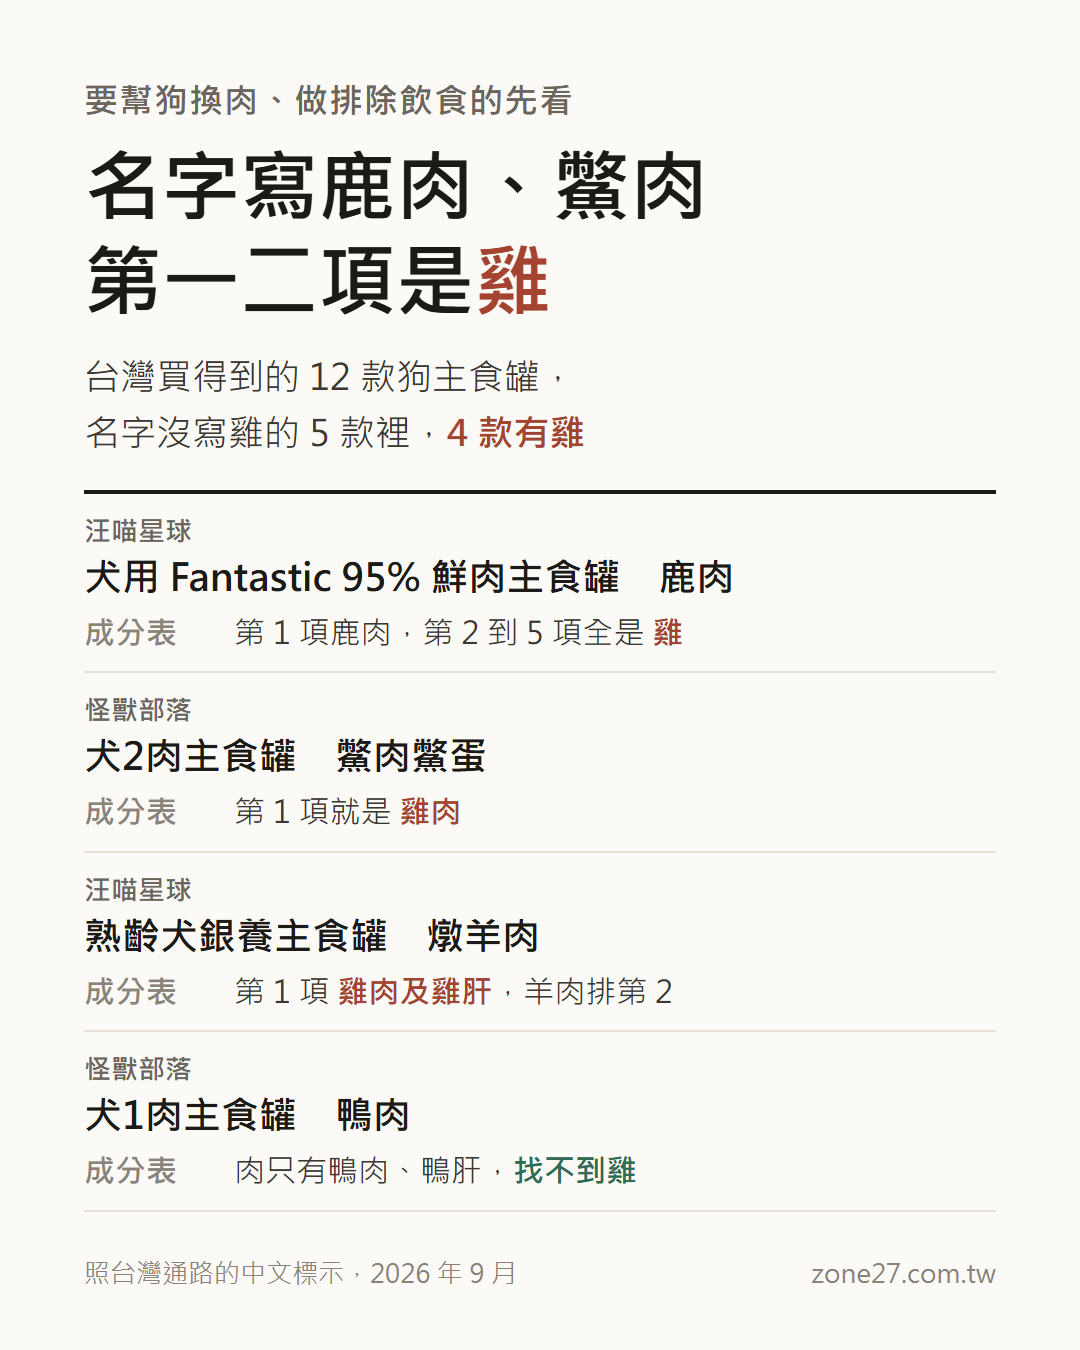
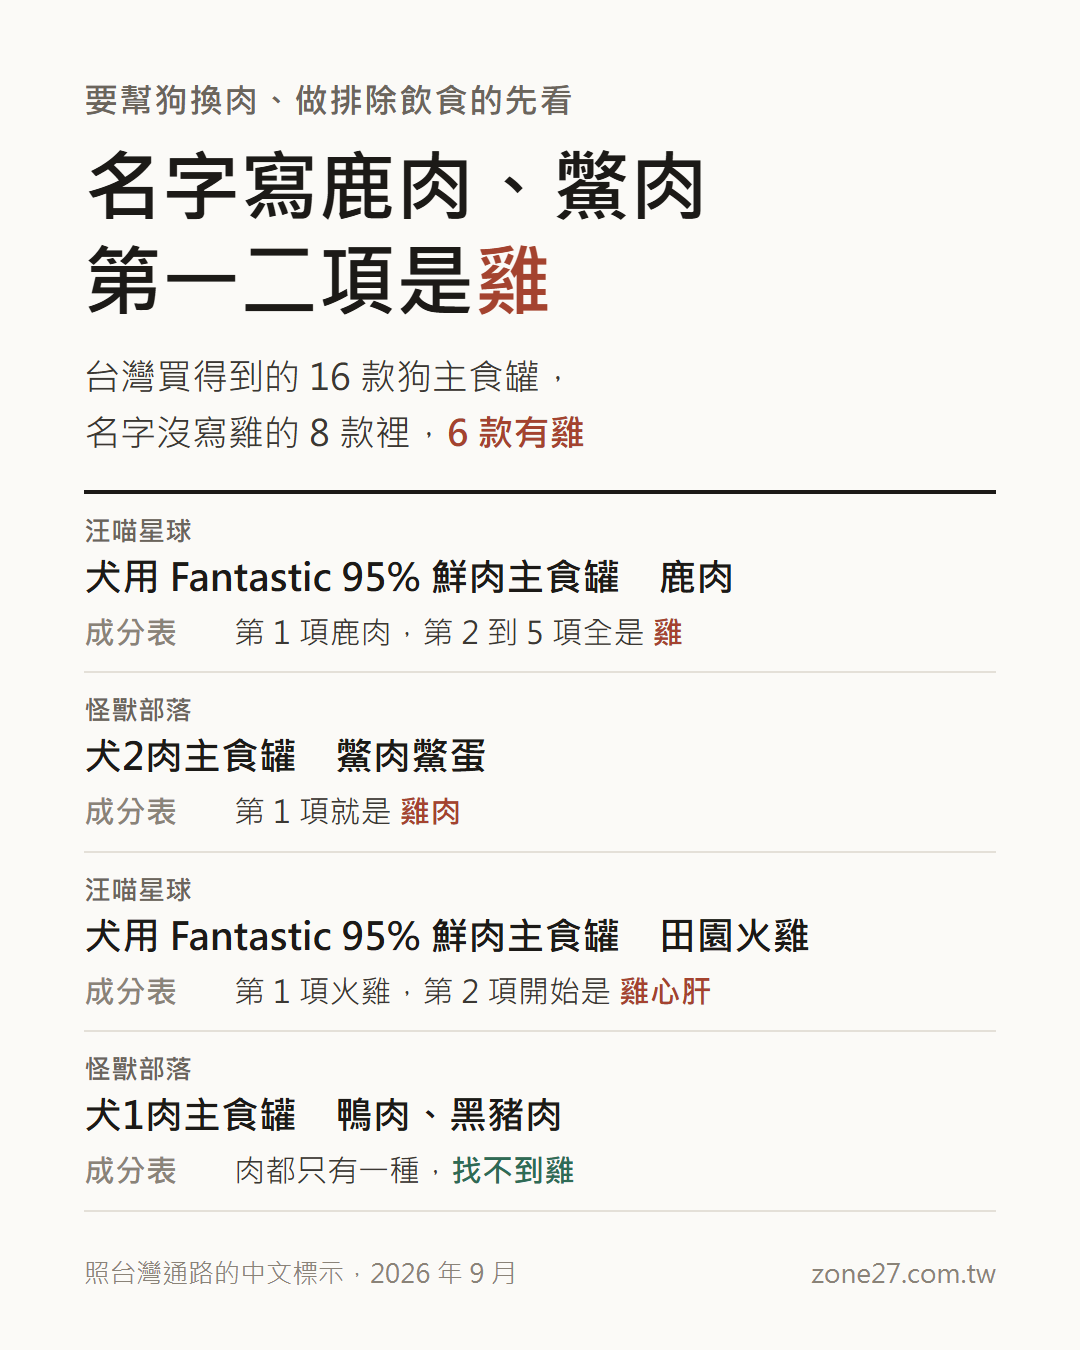
Threads 前兩篇：數字跟圖換成今天的，發文日期往後挪
- 第 1 篇（藏雞總覽）：70／47／16 → 74／50／18，兩張圖重做（第二張重拍查藏雞頁）
- 第 2 篇（狗罐頭藏雞）：12／5／4／只有 1 款 → 16／8／6／2 款，加田園火雞那一句；
  圖改列鹿肉、鱉肉鱉蛋、田園火雞、鴨肉＋黑豬肉；留言範本「那 2 款」補黑豬肉
- 回留言用的編號：柏萊富改成 df-16（已經建成商品）
- 日期：第 1 篇 9/29（二）、第 2 篇 10/1（四）、貓砂兩篇 10/6、10/8，都是晚上 8 點

diff --git a/marketing/threads/img/post-04-1.html b/marketing/threads/img/post-04-1.html
@@ -25,7 +25,7 @@
   <div class="wrap">
     <div class="kick">要幫狗換肉、做排除飲食的先看</div>
     <h1>名字寫鹿肉、鱉肉<br>第一二項是<b>雞</b></h1>
-    <div class="stat">台灣買得到的 12 款狗主食罐，<br>名字沒寫雞的 5 款裡，<b>4 款有雞</b></div>
+    <div class="stat">台灣買得到的 16 款狗主食罐，<br>名字沒寫雞的 8 款裡，<b>6 款有雞</b></div>
     <div class="list">
       <div class="item">
         <div class="brand">汪喵星球</div>
@@ -39,13 +39,13 @@
       </div>
       <div class="item">
         <div class="brand">汪喵星球</div>
-        <div class="name">熟齡犬銀養主食罐　燉羊肉</div>
-        <div class="row"><span class="k">成分表</span>第 1 項 <span class="chk">雞肉及雞肝</span>，羊肉排第 2</div>
+        <div class="name">犬用 Fantastic 95% 鮮肉主食罐　田園火雞</div>
+        <div class="row"><span class="k">成分表</span>第 1 項火雞，第 2 項開始是 <span class="chk">雞心肝</span></div>
       </div>
       <div class="item">
         <div class="brand">怪獸部落</div>
-        <div class="name">犬1肉主食罐　鴨肉</div>
-        <div class="row"><span class="k">成分表</span>肉只有鴨肉、鴨肝，<span class="ok">找不到雞</span></div>
+        <div class="name">犬1肉主食罐　鴨肉、黑豬肉</div>
+        <div class="row"><span class="k">成分表</span>肉都只有一種，<span class="ok">找不到雞</span></div>
       </div>
     </div>
   </div>

diff --git a/marketing/threads/img/post-01-1.html b/marketing/threads/img/post-01-1.html
@@ -24,7 +24,7 @@
   <div class="wrap">
     <div class="kick">對雞過敏的毛孩先看</div>
     <h1>名字沒寫雞<br>成分表裡<b>有雞</b></h1>
-    <div class="stat">台灣買得到的 70 款飼料、罐頭，<br>名字沒寫雞的 47 款裡，<b>16 款有雞</b></div>
+    <div class="stat">台灣買得到的 74 款飼料、罐頭，<br>名字沒寫雞的 50 款裡，<b>18 款有雞</b></div>
     <div class="list">
       <div class="item">
         <div class="brand">Sheba 希寶</div>

diff --git a/marketing/threads/2026-09-post-01.md b/marketing/threads/2026-09-post-01.md
@@ -2,8 +2,8 @@
 
 - 帳號：@zone27.com.tw（2026-09-23 開好）
 - 語氣：2026-09-24 照 Tim 的要求重寫成像真人發的。舊版開頭「先停一下」是行銷課的公式，排版太整齊，一看就是廣告。這一版照台灣飼主在脆上真的發文的樣子寫：想到哪講到哪、空格代替逗號、不用冒號清單、一兩個表情符號、結尾隨口問一句。主詞省掉（「最近在整理...」），不寫「我們」也不假裝是誰家的狗
-- 發文時間：星期四（9/24）晚上 8 點。帳號當天開好的話，白天先去別人的貼文底下留幾則真的有用的回答（不貼連結），晚上再發
-- 數字：2026-09-23 對過查藏雞頁（70 款、名字沒寫雞 47 款、16 款有雞）。隔太久才發的話，發之前再對一次
+- 發文時間：9/29（二）晚上 8 點（原本排 9/24；2026-09-27 Tim 還在問要不要發，整批往後挪）。帳號當天開好的話，白天先去別人的貼文底下留幾則真的有用的回答（不貼連結），晚上再發
+- 數字：2026-09-27 重對過查藏雞頁（74 款、名字沒寫雞 50 款、18 款有雞），圖也重做了。隔太久才發的話，發之前再對一次
 - 主題標籤：毛孩
 - 圖片：img/post-01-1.png、img/post-01-2.png、img/post-01-3.png（照順序）
 - 發完 15 分鐘內留第一則回覆（連結），接下來 2 小時守在旁邊回每一則留言
@@ -23,8 +23,8 @@
 優格的羊肉＋米 第二項是乾燥雞肉 油也是雞油
 汪喵的低敏鴨肉罐 第二項雞肉 第三項雞心肝
 
-整理了 70 款
-名字沒寫雞的 47 款裡 有 16 款是這樣
+整理了 74 款
+名字沒寫雞的 50 款裡 有 18 款是這樣
 
 東西本身不一定不好啦
 只是家裡毛孩如果對雞過敏
@@ -65,11 +65,11 @@ zone27.com.tw/check
 
 編號在查藏雞頁點開那一款、按「傳給朋友」就會複製到正確的連結。
 
-常被問的幾款，編號先查好（2026-09-23 重對過）：
+常被問的幾款，編號先查好（2026-09-27 重對過）：
 - 皇家 室內成貓 IN27 → ck-01、幼貓 K36 → ck-02、絕育成貓 S37 → ck-03、柴犬 S26 → ck-04
 - 紐頓 T24 → cf-16（沒有雞，有購買連結）、T22 → cf-09（有雞）
 - 法米納 N&D 鴨肉 → ck-06（肉沒有雞，油是雞油）、莫比 鱒魚 → cf-19（沒有雞，有購買連結）
-- 狗罐頭：汪喵鹿肉 → dw-08（藏雞）、怪獸部落鱉肉鱉蛋 → dw-03（藏雞）、怪獸部落鴨肉 → dw-01（沒有雞）
+- 狗罐頭：汪喵鹿肉 → dw-08（藏雞）、怪獸部落鱉肉鱉蛋 → dw-03（藏雞）、怪獸部落鴨肉 → dw-01、黑豬肉 → dw-13（都沒有雞）
 - 耐吉斯 超級無穀：慢活貓 ck-08、化毛貓 ck-09、成犬羊肉 ck-10
 - 原點 鮭魚 ck-11（沒有雞）、鴨肉 ck-12（藏雞）、火雞低敏 ck-13（沒有雞）
-- 柏萊富 羊肉護膚 ck-14（沒有雞）、優格 羊肉＋米 ck-15（藏雞）、希寶 鮪魚＋鮭魚 ck-16（藏雞）
+- 柏萊富 羊肉護膚 df-16（沒有雞）、優格 羊肉＋米 ck-15（藏雞）、希寶 鮪魚＋鮭魚 ck-16（藏雞）

diff --git a/marketing/threads/2026-09-post-04.md b/marketing/threads/2026-09-post-04.md
@@ -1,10 +1,10 @@
 # Threads 藏雞系列 #2：名字寫鹿肉、鱉肉的狗罐頭，第一二項是雞
 
 - 帳號：@zone27.com.tw（2026-09-23 開好）
-- 發文時間：9/29（二）晚上 8 點，排第 2 篇（檔名是 04，因為寫得比貓砂那兩篇晚）
+- 發文時間：10/1（四）晚上 8 點，排第 2 篇（檔名是 04，因為寫得比貓砂那兩篇晚）
 - 主題標籤：養狗
 - 圖片：img/post-04-1.png（四款對照）、img/post-04-2.png（網站那一頁）
-- 數字：2026-09-23 對過（12 款、名字沒寫雞 5 款、4 款有雞、只有 1 款整張沒有雞）。成分表照台灣通路商品頁的中文標示，網站那一頁每一筆都有查核日期
+- 數字：2026-09-27 重對過（16 款、名字沒寫雞 8 款、6 款有雞、2 款整張沒有雞），圖也重做了。成分表照台灣通路商品頁的中文標示，網站那一頁每一筆都有查核日期
 - 這一篇接第 1 篇：第 1 篇進來的是在意過敏的人，這一篇講的是最常被拿來「換肉」的那種罐頭
 
 ---
@@ -21,9 +21,10 @@
 汪喵的鹿肉罐 第二到第五項全部是雞
 怪獸部落的鱉肉鱉蛋 第一項就是雞肉
 汪喵熟齡犬的燉羊肉 第一項雞肉跟雞肝
+連寫田園火雞的 第二項開始也是雞心肝
 
-12 款整理下來
-整張成分表真的找不到雞的 只有 1 款
+16 款整理下來
+整張成分表真的找不到雞的 只有 2 款
 
 罐頭本身沒問題啦
 只是如果獸醫叫你幫狗換肉做排除
@@ -35,8 +36,8 @@
 
 ## 第一則回覆（自己留，放連結）
 
-12 款一罐一罐對過 雞排在第幾項都寫出來了
-沒有雞的那 1 款也在裡面
+16 款一罐一罐對過 雞排在第幾項都寫出來了
+沒有雞的那 2 款也在裡面
 zone27.com.tw/dog-wet-food/hidden-chicken
 
 （網站裡的購買連結是蝦皮分潤，價格跟你自己買一樣）
@@ -45,8 +46,8 @@ zone27.com.tw/dog-wet-food/hidden-chicken
 
 ## 留言怎麼回（範本，照情況改）
 
-問「那 1 款是哪一款」的：
-「怪獸部落 犬1肉主食罐 鴨肉，肉只有鴨肉跟鴨肝兩項 👉 zone27.com.tw/check#dw-01」
+問「那 2 款是哪兩款」的：
+「怪獸部落 犬1肉的鴨肉跟黑豬肉，肉都只有一種 👉 鴨肉 zone27.com.tw/check#dw-01 黑豬肉 zone27.com.tw/check#dw-13」
 
 問某一罐有沒有雞、我們讀過的：
 「XX 有雞喔，成分表第 N 項是 OO 👉 zone27.com.tw/check#編號」

diff --git a/marketing/threads/2026-09-post-02.md b/marketing/threads/2026-09-post-02.md
@@ -1,7 +1,7 @@
 # Threads 第 2 篇：寫可沖馬桶的，有的沖了會塞
 
 - 帳號：@zone27.com.tw（2026-09-23 開好）
-- 發文時間：10/1（四）晚上 8 點，排第 3 篇（2026-09-23 重排，見手冊第 8 節）
+- 發文時間：10/6（二）晚上 8 點，排第 3 篇（2026-09-23 重排，見手冊第 8 節）
 - 主題標籤：養貓
 - 圖片：img/post-02-1.png（沖馬桶判定表）、img/post-02-2.png（同一頁兩款對照）
 - 這一篇的目標跟第一篇不同：第一篇是「你家那包有沒有雞」，這篇是「你家那包沖不沖得下去」。同一個格式，換一個類目

diff --git a/marketing/threads/2026-09-post-03.md b/marketing/threads/2026-09-post-03.md
@@ -1,7 +1,7 @@
 # Threads 第 3 篇：礦砂比較便宜？算一個月就知道
 
 - 帳號：@zone27.com.tw（2026-09-23 開好）
-- 發文時間：10/6（二）晚上 8 點，排第 4 篇（2026-09-23 重排，見手冊第 8 節）
+- 發文時間：10/8（四）晚上 8 點，排第 4 篇（2026-09-23 重排，見手冊第 8 節）
 - 主題標籤：養貓
 - 圖片：img/post-03-1.png（月花費對照）
 - 這篇打的是「以為自己在省錢」的人。前兩篇講成分和材質，這篇講錢
